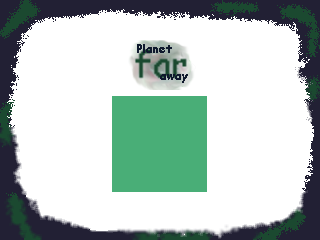
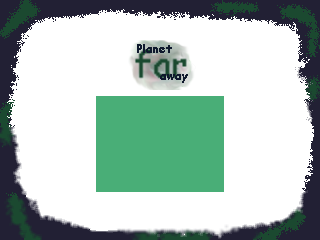
change menu behaviour

Changed region(s): [[0.625, 0.3792, 0.7188, 0.8167], [0.2812, 0.3792, 0.375, 0.8167]]

diff --git a/html/js/game/move.js b/html/js/game/move.js
@@ -133,6 +133,9 @@ function winGame() {
 }
 
 function menu() {
+
+	if(menuReadMe!=1)
+		canvasCtx.drawImage(gamePic[59],0, 0);
 	
 	if(menuMoje==1){
 		canvasCtx.drawImage(gamePic[59],0, 0);
@@ -156,9 +159,13 @@ function menu() {
 			canvasCtx.fillStyle = "red"; 
 		 } else if(transitionCheckpoint.level == "XXXX") canvasCtx.fillStyle = "black"; else canvasCtx.fillStyle="blue";
 		  canvasCtx.textAlign = "center";
-		  canvasCtx.fillText("Checkpoint", canvas.width/2, canvas.height/2); 
+		  if(transitionCheckpoint.level == "XXXX"){
+		  	canvasCtx.fillText("Checkpoint", canvas.width/2, canvas.height/2-7); 
+			canvasCtx.fillText("(not set)", canvas.width/2, canvas.height/2+2); 
+		  }else
+			canvasCtx.fillText("Checkpoint", canvas.width/2, canvas.height/2); 
 		  if(menuRow == 1) canvasCtx.fillStyle = "red"; else canvasCtx.fillStyle="blue"
-		  canvasCtx.fillText("NEW GAME", canvas.width/2, canvas.height/2+20);
+		  canvasCtx.fillText("Restart Episode", canvas.width/2, canvas.height/2+20);
 		 if(menuRow == 2) canvasCtx.fillStyle = "red"; else canvasCtx.fillStyle="blue"
 		  canvasCtx.fillText("ReadMe", canvas.width/2, canvas.height/2+40);
 	}

diff --git a/html/js/game/main.js b/html/js/game/main.js
@@ -3,7 +3,7 @@ let gameInterval;
 let episode
 let transitionCheckpoint = { level : "XXXX", leveltransitionname : "XXXX"}
 let menuRow=1;
-let menuMoje=1;
+let menuMoje=0;
 let menuReadMe=0;
 
 window.onload = function() {
